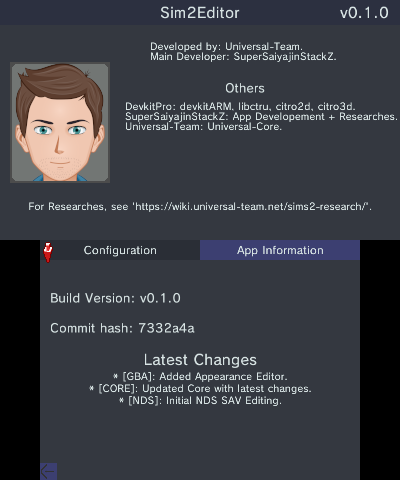
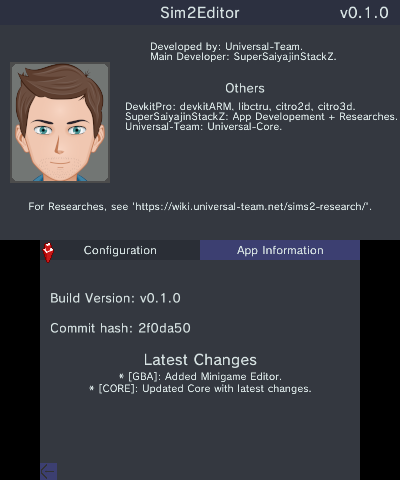
Forgot to push this, lol. ;P
It was actually planned before my break, but ehh there we go.

Changed region(s): [[0.3, 0.75, 0.72, 0.8438], [0.33, 0.6562, 0.48, 0.7188], [0.09, 0.5, 0.15, 0.5312]]

diff --git a/3ds/source/screens/editor/gba/GBAMinigameEditor.cpp b/3ds/source/screens/editor/gba/GBAMinigameEditor.cpp
@@ -1,0 +1,189 @@
+/*
+*   This file is part of Sim2Editor
+*   Copyright (C) 2020-2021 Universal-Team
+*
+*   This program is free software: you can redistribute it and/or modify
+*   it under the terms of the GNU General Public License as published by
+*   the Free Software Foundation, either version 3 of the License, or
+*   (at your option) any later version.
+*
+*   This program is distributed in the hope that it will be useful,
+*   but WITHOUT ANY WARRANTY; without even the implied warranty of
+*   MERCHANTABILITY or FITNESS FOR A PARTICULAR PURPOSE.  See the
+*   GNU General Public License for more details.
+*
+*   You should have received a copy of the GNU General Public License
+*   along with this program.  If not, see <http://www.gnu.org/licenses/>.
+*
+*   Additional Terms 7.b and 7.c of GPLv3 apply to this file:
+*       * Requiring preservation of specified reasonable legal notices or
+*         author attributions in that material or in the Appropriate Legal
+*         Notices displayed by works containing it.
+*       * Prohibiting misrepresentation of the origin of that material,
+*         or requiring that modified versions of such material be marked in
+*         reasonable ways as different from the original version.
+*/
+
+#include "Common.hpp"
+#include "GBAMinigameEditor.hpp"
+#include "ListSelection.hpp"
+#include "Strings.hpp"
+
+/* MAIN Tab. */
+void GBAMinigameEditor::TogglePlayed() { this->ActiveMinigame->Played(!this->ActiveMinigame->Played()); }; // Toggle the Played state.
+
+/* Miscellaneous Tab. */
+void GBAMinigameEditor::ResetLevels() { // Reset Minigame Levels.
+	for (uint8_t Idx = 0; Idx < 7; Idx++) {
+		std::unique_ptr<S2Editor::GBAMinigame> Game = this->Slot->Minigame(Idx);
+
+		Game->Level(1, true);
+	}
+};
+void GBAMinigameEditor::MaxLevels() { // Max out Minigame Levels.
+	for (uint8_t Idx = 0; Idx < 7; Idx++) {
+		std::unique_ptr<S2Editor::GBAMinigame> Game = this->Slot->Minigame(Idx);
+
+		Game->Level(5, true);
+	}
+};
+void GBAMinigameEditor::AllPlayed() { // Set all Minigames to played.
+	for (uint8_t Idx = 0; Idx < 7; Idx++) {
+		std::unique_ptr<S2Editor::GBAMinigame> Game = this->Slot->Minigame(Idx);
+
+		Game->Played(true);
+	}
+};
+void GBAMinigameEditor::AllUnplayed() { // Set all Minigames to unplayed.
+	for (uint8_t Idx = 0; Idx < 7; Idx++) {
+		std::unique_ptr<S2Editor::GBAMinigame> Game = this->Slot->Minigame(Idx);
+
+		Game->Played(false);
+	}
+};
+
+/* Goes screen back. */
+void GBAMinigameEditor::Back() {
+	this->Exit = true;
+	Gui::screenBack();
+	return;
+};
+
+/* Init a minigame. */
+void GBAMinigameEditor::InitGame(const uint8_t Game) {
+	this->ActiveMinigame = this->Slot->Minigame(Game);
+
+	/* Init Label. */
+	this->LevelLabel = std::make_unique<NumInputLabel<uint8_t>>(140, 80, this->ActiveMinigame->Level(), 0, 5, "Enter the Minigame Level.");
+};
+
+/* Select a Minigame from the list. */
+void GBAMinigameEditor::SelectMinigame() {
+	std::unique_ptr<ListSelection> Ovl = std::make_unique<ListSelection>(S2Editor::Strings::GBAMinigameNames_EN, "Select a minigame you like to edit.", this->ActiveMinigame->Index());
+	const uint8_t Game = Ovl->Action();
+
+	/* Init new selected game. */
+	if (Game != this->ActiveMinigame->Index()) this->InitGame(Game);
+};
+
+/* Main Draw. */
+void GBAMinigameEditor::Draw(void) const {
+	GFX::DrawTop();
+	Gui::DrawStringCentered(0, 3, 0.6f, TEXT_COLOR, "GBA Minigame Editor");
+	Gui::Draw_Rect(100, 200, 200, 20, BUTTON_COLOR);
+	Gui::DrawStringCentered(0, 202, 0.5f, TEXT_COLOR, S2Editor::Strings::GBAMinigameNames_EN[this->ActiveMinigame->Index()]);
+
+	GFX::DrawBottom();
+
+	/* Draw Tabs. */
+	Gui::Draw_Rect(0, 0, 160, 20, (this->Tab == Tabs::Main ? KBD_KEYPRESSED : KD_KEYUNPRESSED));
+	Gui::Draw_Rect(160, 0, 160, 20, (this->Tab == Tabs::Misc ? KBD_KEYPRESSED : KD_KEYUNPRESSED));
+	Gui::DrawStringCentered(-80, 3, 0.45f, TEXT_COLOR, "Main");
+	Gui::DrawStringCentered(80, 3, 0.45f, TEXT_COLOR, "Miscellaneous");
+
+	switch(this->Tab) {
+		case Tabs::Main:
+			/* Draw Level. */
+			Gui::DrawString(120, 83, 0.5f, TEXT_COLOR, "Level: ", 110, 0, nullptr, C2D_AlignRight);
+			this->LevelLabel->Draw();
+
+			/* Draw Minigame Played. */
+			Gui::DrawString(10, this->Positions[2].Y + 5, 0.4f, TEXT_COLOR, "Minigame played: ");
+			GFX::DrawCheckbox(this->Positions[2].X, this->Positions[2].Y, this->ActiveMinigame->Played());
+			break;
+
+		case Tabs::Misc:
+			/* Display Misc Buttons. */
+			for (uint8_t Idx = 0; Idx < 4; Idx++) {
+				Gui::Draw_Rect(this->MassPos[Idx + 2].X, this->MassPos[Idx + 2].Y, this->MassPos[Idx + 2].W, this->MassPos[Idx + 2].H, KBD_KEYPRESSED);
+
+				Gui::DrawStringCentered(0, this->MassPos[Idx + 2].Y + 8, 0.5f, TEXT_COLOR, this->MiscNames[Idx], 150);
+			}
+			break;
+	}
+
+	Gui::Draw_Rect(this->Positions[3].X, this->Positions[3].Y, this->Positions[3].W, this->Positions[3].H, KBD_KEYPRESSED); // Minigame icn.
+	Gui::DrawSprite(GFX::Sprites, sprites_minigame_btn_idx, this->Positions[3].X, this->Positions[3].Y);
+	Gui::Draw_Rect(this->Positions[4].X, this->Positions[4].Y, this->Positions[4].W, this->Positions[4].H, KBD_KEYPRESSED); // Back.
+	Gui::DrawSprite(GFX::Sprites, sprites_back_btn_idx, this->Positions[4].X, this->Positions[4].Y);
+	Pointer::Draw();
+};
+
+/* Main Logic. */
+void GBAMinigameEditor::Logic(u32 hDown, u32 hHeld, touchPosition touch) {
+	Pointer::FrameHandle();
+	Pointer::ScrollHandle(hHeld);
+	uint32_t hRepeat = hidKeysDownRepeat();
+
+	if (hDown & KEY_A) {
+		bool Pressed = false;
+
+		for (auto &Position : (this->Tab == Tabs::Main ? this->Positions : this->MassPos)) {
+			if (Pointer::Callback(Position, true)) {
+				Pressed = true;
+				break;
+			}
+		}
+
+		/* Level. */
+		if (!Pressed && this->Tab == Tabs::Main) {
+			if (this->LevelLabel->CallbackA()) this->ActiveMinigame->Level(this->LevelLabel->GetVal());
+		}
+	}
+
+	/* NUM Input Labels Only. */
+	if (hRepeat & KEY_A && this->Tab == Tabs::Main) {
+		if (this->Exit) return;
+
+		/* Level. */
+		if (this->LevelLabel->CallbackAmountA()) this->ActiveMinigame->Level(this->LevelLabel->GetVal());
+	}
+
+	if (hDown & KEY_TOUCH) {
+		bool Pressed = false;
+
+		for (auto &Position : (this->Tab == Tabs::Main ? this->Positions : this->MassPos)) {
+			if (Touching(Position, touch, true)) {
+				Pressed = true;
+				break;
+			}
+		}
+
+		/* Level. */
+		if (!Pressed && this->Tab == Tabs::Main) {
+			if (this->LevelLabel->CallbackTouch(touch)) this->ActiveMinigame->Level(this->LevelLabel->GetVal());
+		}
+	}
+
+	/* Same for the Minus and Plus buttons as well. */
+	if (hRepeat & KEY_TOUCH) {
+		if (this->Exit) return;
+
+		/* Level. */
+		if (this->LevelLabel->CallbackAmountTouch(touch)) this->ActiveMinigame->Level(this->LevelLabel->GetVal());
+	}
+
+	if (hDown & KEY_L) this->MainTab();
+	if (hDown & KEY_R) this->MiscTab();
+	if (hDown & KEY_B) this->Back();
+};

diff --git a/3ds/include/screens/editor/gba/GBAMinigameEditor.hpp b/3ds/include/screens/editor/gba/GBAMinigameEditor.hpp
@@ -24,52 +24,70 @@
 *         reasonable ways as different from the original version.
 */
 
-#ifndef _SIM2EDITOR_GBA_GENERAL_EDITOR_HPP
-#define _SIM2EDITOR_GBA_GENERAL_EDITOR_HPP
+#ifndef _SIM2EDITOR_GBA_MINIGAME_EDITOR_HPP
+#define _SIM2EDITOR_GBA_MINIGAME_EDITOR_HPP
 
+#include "GBAMinigame.hpp"
 #include "GBASlot.hpp"
 #include "NumInputLabel.hpp"
 #include "Pointer.hpp"
 #include "screen.hpp"
-#include "StringInputLabel.hpp"
-#include <string>
 #include <vector>
 
-class GBAGeneralEditor : public Screen {
+class GBAMinigameEditor : public Screen {
 public:
-	GBAGeneralEditor(std::shared_ptr<S2Editor::GBASlot> &Slot);
+	GBAMinigameEditor(std::shared_ptr<S2Editor::GBASlot> &Slot) : Slot(Slot) { this->InitGame(0); };
 	void Draw(void) const override;
 	void Logic(u32 hDown, u32 hHeld, touchPosition touch) override;
 private:
-	enum class Tabs : uint8_t { Main, Collectables, SkillPoints };
+	enum class Tabs : uint8_t { Main, Misc };
 
+	std::unique_ptr<S2Editor::GBAMinigame> ActiveMinigame = nullptr;
 	std::shared_ptr<S2Editor::GBASlot> Slot = nullptr;
-	std::unique_ptr<NumInputLabel<uint32_t>> SimoleonLabel = nullptr; // uint32_t.
-	std::unique_ptr<NumInputLabel<uint16_t>> RatingLabel = nullptr; // uint16_t.
-	std::vector<std::unique_ptr<NumInputLabel<uint8_t>>> TimeLabels = { }; // uint8_t.
-	std::vector<std::unique_ptr<NumInputLabel<uint8_t>>> CollectableLabels = { }; // uint8_t.
-	std::unique_ptr<StringInputLabel> NameLabel = nullptr;
-	std::vector<std::unique_ptr<NumInputLabel<uint8_t>>> SkillLabels = { }; // uint8_t.
+	std::unique_ptr<NumInputLabel<uint8_t>> LevelLabel = nullptr;
 	Tabs Tab = Tabs::Main;
 	bool Exit = false;
 
-	/* Shared. */
+	/* Shared things. */
 	void MainTab() { this->Tab = Tabs::Main; };
-	void CollectableTab() { this->Tab = Tabs::Collectables; };
-	void SkillPointsTab() { this->Tab = Tabs::SkillPoints; };
+	void MiscTab() { this->Tab = Tabs::Misc; };
 	void Back();
+	void InitGame(const uint8_t Game);
+	void SelectMinigame();
+
+	/* Main Tab. */
+	void TogglePlayed();
 
 	const std::vector<PointerStr> Positions = {
-		{ 1, 0, 106, 20, [this]() { this->MainTab(); } },
-		{ 107, 0, 106, 20, [this]() { this->CollectableTab(); } },
-		{ 213, 0, 106, 20, [this]() { this->SkillPointsTab(); } },
+		{ 0, 0, 160, 20, [this]() { this->MainTab(); } },
+		{ 160, 0, 160, 20, [this]() { this->MiscTab(); } },
+
+		{ 106, 180, 24, 24, [this]() { this->TogglePlayed(); } },
+
+		{ 272, 192, 48, 48, [this]() { this->SelectMinigame(); } },
 		{ 0, 223, 17, 17, [this]() { this->Back(); } }
 	};
 
-	/* Collectables Tab. */
-	void CollectableUpdater(const uint8_t Idx);
-	/* Skill Points Tab. */
-	void SkillUpdater(const uint8_t Idx);
+	/* Miscellaneous Tab. */
+	void ResetLevels();
+	void MaxLevels();
+	void AllUnplayed();
+	void AllPlayed();
+
+	const std::vector<PointerStr> MassPos = {
+		{ 0, 0, 160, 20, [this]() { this->MainTab(); } },
+		{ 160, 0, 160, 20, [this]() { this->MiscTab(); } },
+
+		{ 80, 35, 160, 35, [this]() { this->ResetLevels(); } },
+		{ 80, 80, 160, 35, [this]() { this->MaxLevels(); } },
+		{ 80, 125, 160, 35, [this]() { this->AllUnplayed(); } },
+		{ 80, 170, 160, 35, [this]() { this->AllPlayed(); } },
+
+		{ 272, 192, 48, 48, [this]() { this->SelectMinigame(); } },
+		{ 0, 223, 17, 17, [this]() { this->Back(); } }
+	};
+
+	const std::vector<std::string> MiscNames = { "Reset all Levels", "Max out all Levels", "Set all unplayed", "Set all played" };
 };
 
 #endif

diff --git a/3ds/source/screens/editor/gba/GBASlotEditor.cpp b/3ds/source/screens/editor/gba/GBASlotEditor.cpp
@@ -31,6 +31,7 @@
 #include "GBAGeneralEditor.hpp"
 #include "GBAHouseEditor.hpp"
 #include "GBAItemEditor.hpp"
+#include "GBAMinigameEditor.hpp"
 #include "GBASlotEditor.hpp"
 #include "GBASocialMoveEditor.hpp"
 #include "SimUtils.hpp"
@@ -49,6 +50,8 @@ void GBASlotEditor::GotoItemEditor() { Gui::setScreen(std::make_unique<GBAItemEd
 void GBASlotEditor::GotoHouseEditor() { Gui::setScreen(std::make_unique<GBAHouseEditor>(this->Slot), false, true); };
 /* Go to Appearance Editor. */
 void GBASlotEditor::GotoAppearanceEditor() { Gui::setScreen(std::make_unique<GBAAppearanceEditor>(this->Slot), false, true); };
+/* Go to Minigame Editor. */
+void GBASlotEditor::GotoMinigameEditor() { Gui::setScreen(std::make_unique<GBAMinigameEditor>(this->Slot), false, true); };
 /* Go back to Editor. */
 void GBASlotEditor::Back() {
 	Gui::screenBack();
@@ -87,8 +90,11 @@ void GBASlotEditor::Draw(void) const {
 	Gui::Draw_Rect(this->Positions[6].X, this->Positions[6].Y, this->Positions[6].W, this->Positions[6].H, KBD_KEYPRESSED); // House Icn.
 	Gui::DrawSprite(GFX::Sprites, sprites_house_btn_idx, this->Positions[6].X, this->Positions[6].Y + 2);
 
-	Gui::Draw_Rect(this->Positions[7].X, this->Positions[7].Y, this->Positions[7].W, this->Positions[7].H, KBD_KEYPRESSED); // Back Icn.
-	Gui::DrawSprite(GFX::Sprites, sprites_back_btn_idx, this->Positions[7].X, this->Positions[7].Y);
+	Gui::Draw_Rect(this->Positions[7].X, this->Positions[7].Y, this->Positions[7].W, this->Positions[7].H, KBD_KEYPRESSED); // Minigame Icn.
+	Gui::DrawSprite(GFX::Sprites, sprites_minigame_btn_idx, this->Positions[7].X, this->Positions[7].Y);
+
+	Gui::Draw_Rect(this->Positions[8].X, this->Positions[8].Y, this->Positions[8].W, this->Positions[8].H, KBD_KEYPRESSED); // Back Icn.
+	Gui::DrawSprite(GFX::Sprites, sprites_back_btn_idx, this->Positions[8].X, this->Positions[8].Y);
 
 	Pointer::Draw();
 };

diff --git a/3ds/include/screens/editor/gba/GBASlotEditor.hpp b/3ds/include/screens/editor/gba/GBASlotEditor.hpp
@@ -47,6 +47,7 @@ private:
 	void GotoItemEditor();
 	void GotoHouseEditor();
 	void GotoAppearanceEditor();
+	void GotoMinigameEditor();
 	void Back();
 
 	const std::vector<PointerStr> Positions = {
@@ -60,6 +61,7 @@ private:
 		{ 46, 144, 48, 48, [this]() { this->GotoGeneralEditor(); } },
 		{ 106, 144, 48, 48, [this]() { this->GotoItemEditor(); } },
 		{ 166, 144, 48, 48, [this]() { this->GotoHouseEditor(); } },
+		{ 226, 144, 48, 48, [this]() { this->GotoMinigameEditor(); } },
 
 		{ 0, 223, 17, 17, [this]() { this->Back(); } }
 	};

diff --git a/3ds/source/screens/Settings.cpp b/3ds/source/screens/Settings.cpp
@@ -144,10 +144,8 @@ void Settings::DrawPages() const {
 
 			/* Change this, after changes to the 3DS version. */
 			Gui::DrawStringCentered(0, 130, 0.4f, TEXT_COLOR,
-				"* [GBA]: Added Appearance Editor.\n"
-				"* [CORE]: Updated Core with latest changes.\n"
-				"* [NDS]: Initial NDS SAV Editing.\n"
-				"* [CORE]: Namespace S2Editor.",
+				"* [GBA]: Added Minigame Editor.\n"
+				"* [CORE]: Updated Core with latest changes.\n",
 			310);
 			break;
 	}

diff --git a/Features-List.md b/Features-List.md
@@ -61,6 +61,11 @@
 - [x] Add an Item to your House.
 - [x] Remove an Item from your House.
 
+### Minigame Editor
+- [x] Edit the Level of the active minigame. (NOTE: This will also set it to the Settings for the Minigames menu).
+- [x] Edit played today flag.
+
+
 ## NDS (The Sims 2 Version)
 
 ### General Editor
